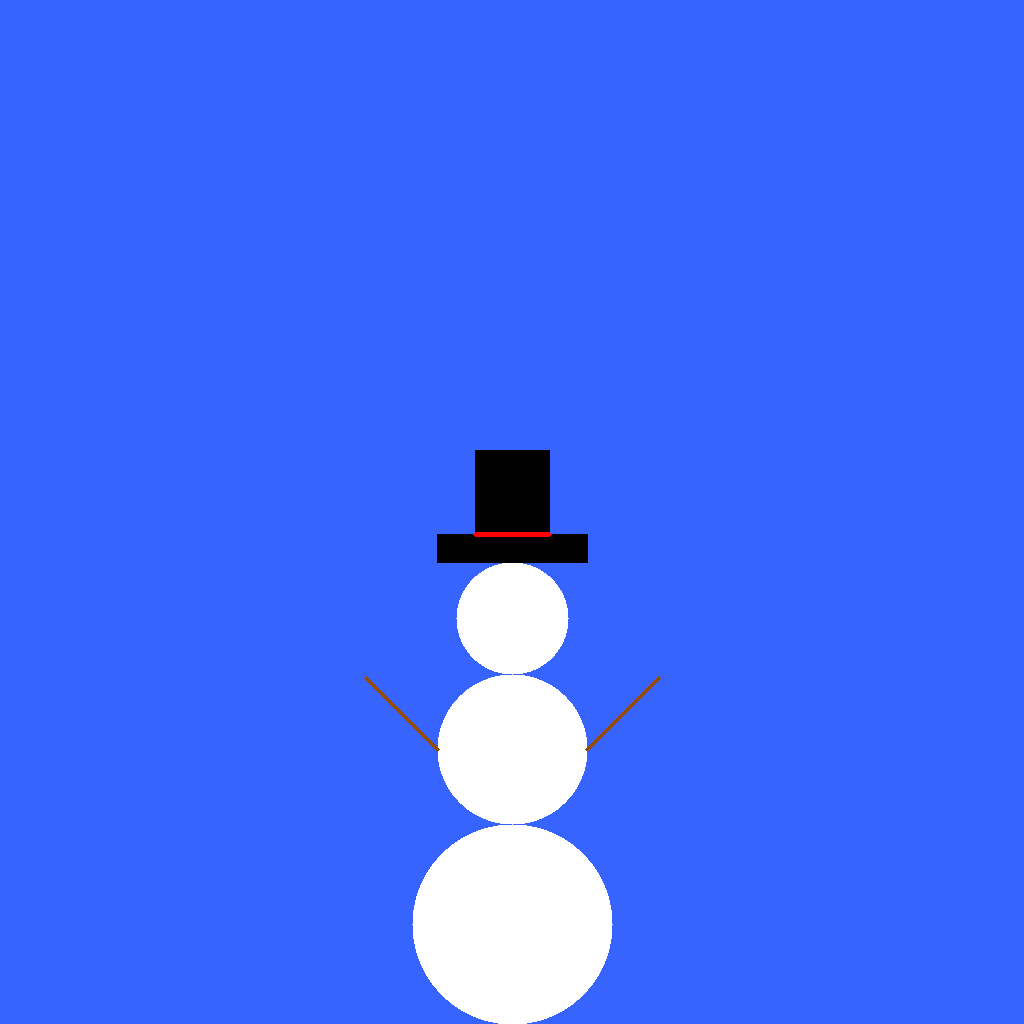
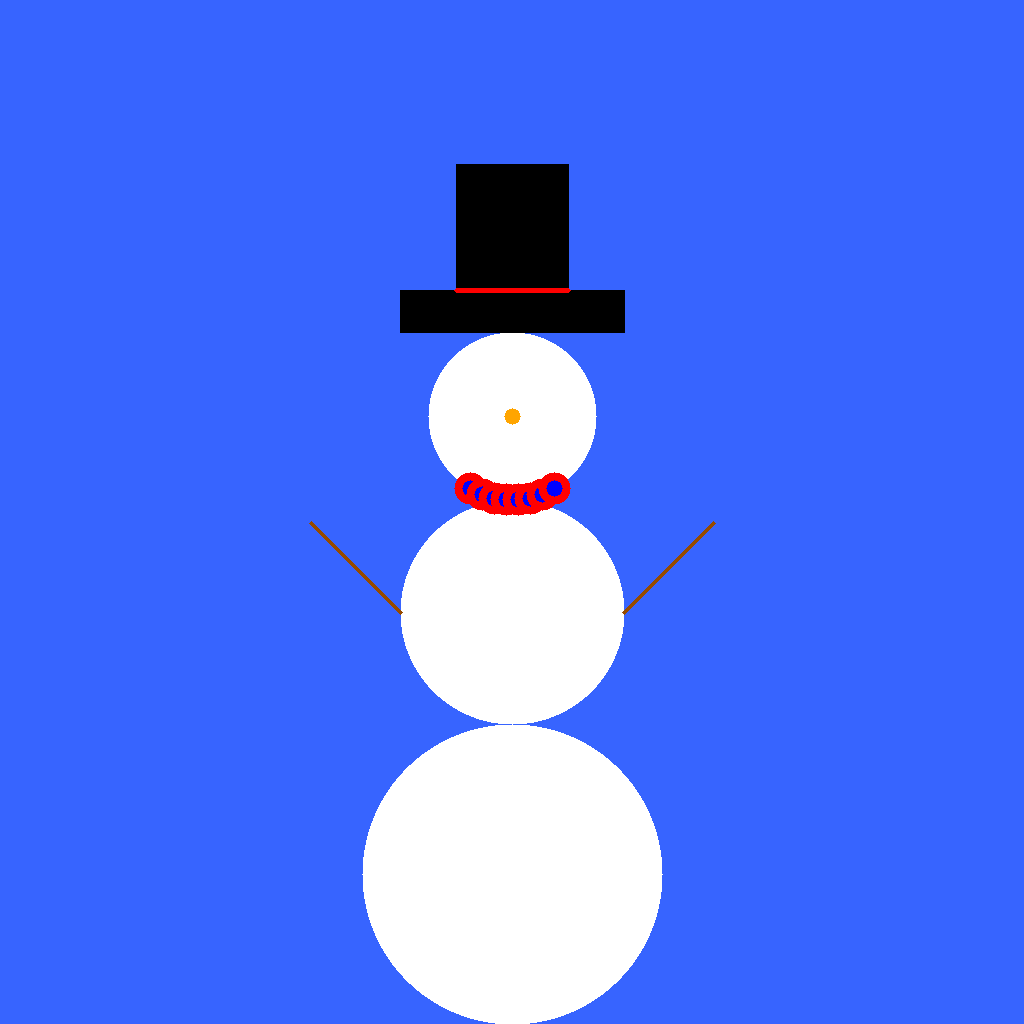
Added scarf

Changed region(s): [[0.3438, 0.1562, 0.6562, 1.0], [0.6562, 0.5312, 0.6875, 0.5625]]

diff --git a/main.py b/main.py
@@ -16,7 +16,7 @@ async def on_ready():
     await bot.change_presence(activity = discord.Game("Do you wanna build a snowman?"))
 
 class BuildStructure(discord.ui.Modal):
-    def __init__(self, button_view: discord.ui.View, bottom_radius: int = 100, middle_radius: int = 75, top_radius: int = 56, arm_length: int = 100, num_buttons: int = 3, rgb: tuple = (0, 0, 0), rgb_sec: tuple = (255, 0, 0), scarf: tuple = (255, 0, 0), scarf_sec: tuple = (0, 0, 255), bg: tuple = (55, 100, 255)):
+    def __init__(self, button_view: discord.ui.View, bottom_radius: int = 150, middle_radius: int = 112, top_radius: int = 84, arm_length: int = 125, num_buttons: int = 3, rgb: tuple = (0, 0, 0), rgb_sec: tuple = (255, 0, 0), scarf: tuple = (255, 0, 0), scarf_sec: tuple = (0, 0, 255), bg: tuple = (55, 100, 255)):
         super().__init__("Build a snowman!", timeout = None)
         self.button_view = button_view
         self.bottom_radius_value = bottom_radius
@@ -75,7 +75,7 @@ class BuildStructure(discord.ui.Modal):
             self.bottom_radius_value = abs(int(float(self.bottom_radius.value)))
         except:
             if not self.bottom_radius.value and not self.bottom_radius_value:
-                self.bottom_radius_value = 100
+                self.bottom_radius_value = 150
             elif not self.bottom_radius_value:
                 await interaction.send("The values of the radii have to be numbers!", ephemeral = True)
                 return
@@ -100,7 +100,7 @@ class BuildStructure(discord.ui.Modal):
             self.arm_length_value = abs(int(float(self.arm_length.value)))
         except:
             if not self.arm_length.value and not self.arm_length_value:
-                self.arm_length_value = 100
+                self.arm_length_value = 125
             elif not self.arm_length_value:
                 await interaction.send("The value of the arm length has to be a number", ephemeral = True)
                 return
@@ -147,7 +147,7 @@ class BuildStructure(discord.ui.Modal):
         self.bg = bg_colour
 
 class BuildDesign(discord.ui.Modal):
-    def __init__(self, button_view: discord.ui.View, bottom_radius: int = 100, middle_radius: int = 75, top_radius: int = 56, arm_length: int = 100, num_buttons: int = 3, rgb: tuple = (0, 0, 0), rgb_sec: tuple = (255, 0, 0), scarf: tuple = (255, 0, 0), scarf_sec: tuple = (0, 0, 255), bg: tuple = (55, 100, 255)):
+    def __init__(self, button_view: discord.ui.View, bottom_radius: int = 150, middle_radius: int = 112, top_radius: int = 84, arm_length: int = 125, num_buttons: int = 3, rgb: tuple = (0, 0, 0), rgb_sec: tuple = (255, 0, 0), scarf: tuple = (255, 0, 0), scarf_sec: tuple = (0, 0, 255), bg: tuple = (55, 100, 255)):
         super().__init__("Build a snowman!", timeout = None)
         self.button_view = button_view
         self.bottom_radius_value = bottom_radius
@@ -309,6 +309,15 @@ def createImage(bottom_radius: int, middle_radius: int, top_radius: int, arm_len
     cv2.rectangle(img, hat_bottom_start, hat_bottom_end, hat_colour, -1)
     cv2.rectangle(img, hat_top_start, hat_top_end, hat_colour, -1)
     cv2.line(img, (side//2-middle_radius//2, side-int(2*bottom_radius+2*middle_radius+2.5*top_radius)), (side//2+middle_radius//2, side-int(2*bottom_radius+2*middle_radius+2.5*top_radius)), hat_colour_secondary, 3)
+    scarf_points = []
+    for x in range(-top_radius//2, top_radius//2 + 1, top_radius//7):
+        y_coord = int((top_radius**2 - x**2)**(0.5))
+        point = (side//2 + x, (side-(2*bottom_radius+2*middle_radius+top_radius))+y_coord)
+        scarf_points.append(point)
+    for point in scarf_points:
+        cv2.circle(img, point, top_radius//5, scarf_colour, -1)
+        cv2.circle(img, point, top_radius//10, scarf_colour_secondary, -1)
+    cv2.circle(img, (side//2, side-(2*bottom_radius+2*middle_radius+top_radius)), top_radius//10, (0, 165, 255), -1)
     cv2.imwrite(f"./build-a-snowman/snowmen/{guild_id}_{user}.png", img)
 
 def ConvertToRGB(colour: str = "000000"):
@@ -334,10 +343,10 @@ def ConvertToRGB(colour: str = "000000"):
 async def build(interaction: discord.Interaction):
     button_view = BuildView()
     snowman_embed = discord.Embed(title = "Your snowman!", colour = discord.Colour.blue())
-    snowman_embed.add_field(name = "Bottom snowball radius", value = 100)
-    snowman_embed.add_field(name = "Middle snowball radius", value = 75)
-    snowman_embed.add_field(name = "Top snowball radius", value = 56)
-    snowman_embed.add_field(name = "Arm length", value = 100)
+    snowman_embed.add_field(name = "Bottom snowball radius", value = 150)
+    snowman_embed.add_field(name = "Middle snowball radius", value = 112)
+    snowman_embed.add_field(name = "Top snowball radius", value = 84)
+    snowman_embed.add_field(name = "Arm length", value = 125)
     snowman_embed.add_field(name = "Number of buttons", value = 3)
     snowman_embed.add_field(name = "Primary hat colour", value = (0, 0, 0))
     snowman_embed.add_field(name = "Secondary hat colour", value = (255, 0, 0))
